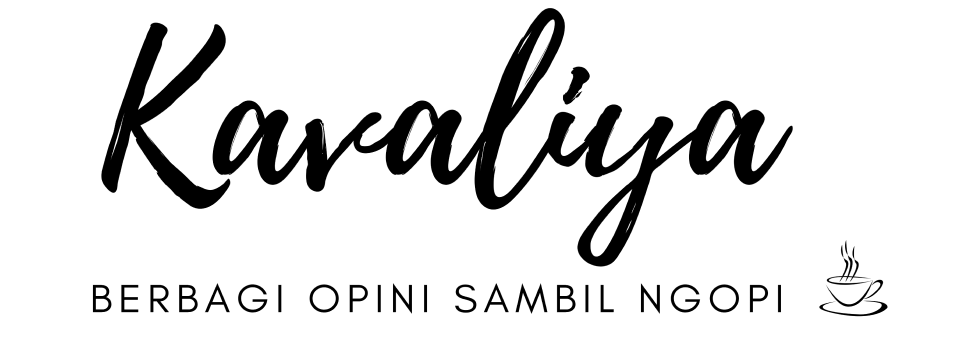
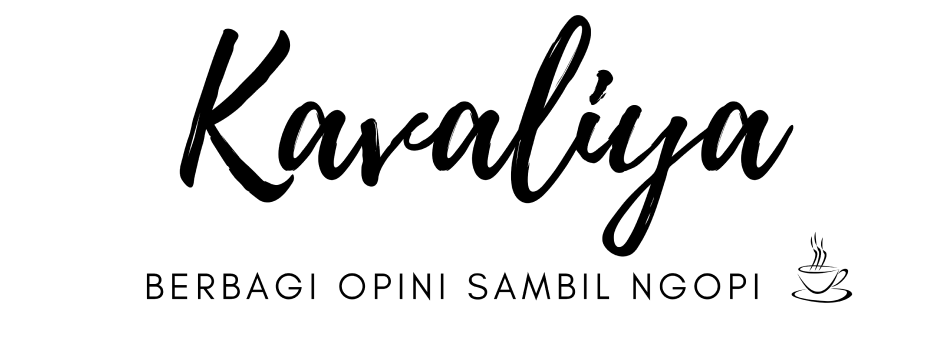
Fixing navbar & header

Changed region(s): [[0.0924, 0.0, 0.862, 0.7715], [0.0924, 0.6825, 0.9236, 0.9199]]

diff --git a/resources/views/posts.blade.php b/resources/views/posts.blade.php
@@ -3,20 +3,24 @@
 
 @section('container')
 
-<h1 class="mb-3 text-center">{{ $title }}</h1>
-
-<div class="row justify-content-center mb-3" >
-    <div class="col-md-6">
-        <form action="/posts">
+<div class="row ">
+    <div class="col align-self-center">
+      <img src="{{ asset('img/header_1.png') }}" class="img-fluid" />
+    </div>
+  </div>
+  
+  <div class="row justify-content-center mb-3" >
+      <div class="col-md-6">
+          <form action="/posts">
             @if (request('category'))
-                <input type="hidden" name="category" value="{{ request('category') }}">
+            <input type="hidden" name="category" value="{{ request('category') }}">
             @endif
             @if (request('author'))
-                <input type="hidden" name="author" value="{{ request('author') }}">
+            <input type="hidden" name="author" value="{{ request('author') }}">
             @endif
             <div class="input-group mb-3">
-            <input type="text" class="form-control" placeholder="Search..." aria-label="Recipient's username" aria-describedby="button-addon2" name="cari" value= {{ request('cari')}}>
-            <button class="btn btn-dark" type="submit" id="button-addon2">Search</button>
+                <input type="text" class="form-control" placeholder="Search..." aria-label="Recipient's username" aria-describedby="button-addon2" name="cari" value= {{ request('cari')}}>
+                <button class="btn btn-dark" type="submit" id="button-addon2">Search</button>
             </div>
         </form>
     </div>

diff --git a/resources/views/home.blade.php b/resources/views/home.blade.php
@@ -4,7 +4,7 @@
 <div class="head-section">
     <div class="container">
       <div class="row p-3">
-        <div class="col align-self-center">
+        <div class="col align-self-center mt-0">
           <img
             src="{{ asset('img/header_1.png') }}"
             class="img-fluid"
@@ -12,7 +12,7 @@
         </div>
       </div>
     </div>
-  </div>
+</div>
 <!-- CONTENT -->
     <div class="container">
         <div class="card mb-3 shadow-sm">

diff --git a/resources/views/partial/navbar.blade.php b/resources/views/partial/navbar.blade.php
@@ -1,4 +1,4 @@
-<div class="container">
+<div class="container mt-2">
     <nav class="navbar navbar-expand-lg navbar-light bg-white">
       <a class="navbar-brand font-weight-bold" href="#"></a>
       <button

diff --git a/resources/views/layout/main.blade.php b/resources/views/layout/main.blade.php
@@ -28,7 +28,7 @@
   </head>
   <body>
     @include('partial.navbar')
-        <div class="container mt-4">
+        <div class="container mt-3">
             @yield('container')
         </div>
 
